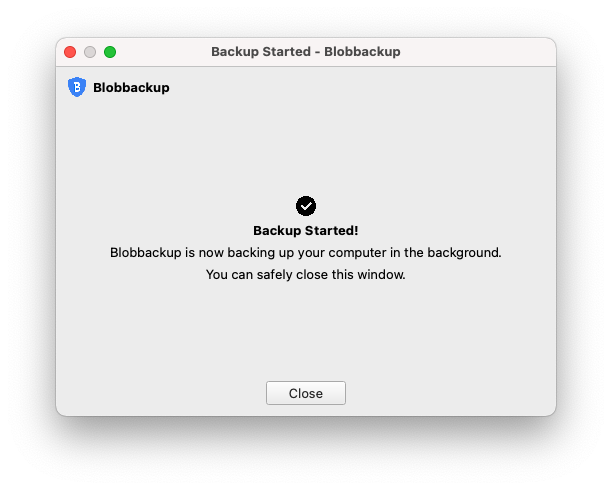
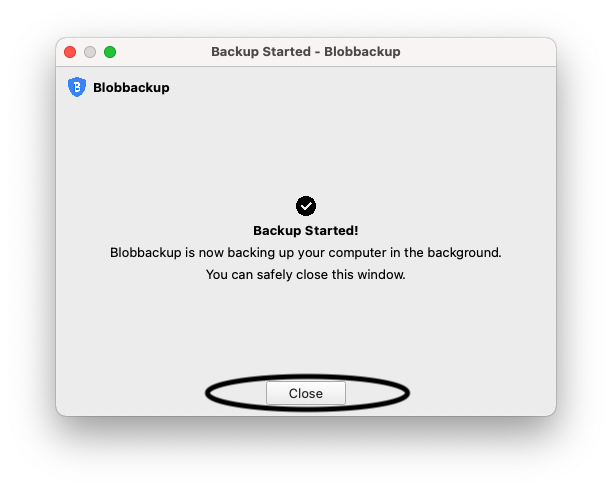
Add 'how to install blobbackup on mac' support page

Changed region(s): [[0.3105, 0.7347, 0.683, 0.8571]]

diff --git a/website/source/_support/how-to-install-blobbackup-on-mac.md b/website/source/_support/how-to-install-blobbackup-on-mac.md
@@ -1,0 +1,39 @@
+---
+extends: _layouts.support
+title: How to Install Blobbackup on Mac
+author: Bimba Shrestha
+date: 2022-02-01
+section: content
+---
+
+Open the Blobbackup installer you downloaded (a file ending in .dmg).
+
+<img src="/assets/images/mac-installer.png" class="md:w-1/2">
+
+Drag the Blobbackup app into the Applications folder.
+
+<img src="/assets/images/mac-drag.png" class="md:w-1/2">
+
+<a href="/support/how-to-grant-full-disk-access-on-mac" target="_blank">Grant Full Disk Access to Blobbackup</a> then open Blobbackup from your Applications folder.
+
+![](/assets/images/mac-applications.png)
+
+If you see a pop up like this, click open.
+
+<img src="/assets/images/mac-code-sign-open.png" class="md:w-1/2">
+
+Sign in to your Blobbackup account.
+
+![](/assets/images/mac-login.png)
+
+Click Start Backing Up.
+
+![](/assets/images/mac-welcome.png)
+
+Click Close.
+
+![](/assets/images/mac-started.png)
+
+Finished! Blobbackup will now backup your entire computer to the cloud in the background.
+
+![](/assets/images/mac-main.png)
